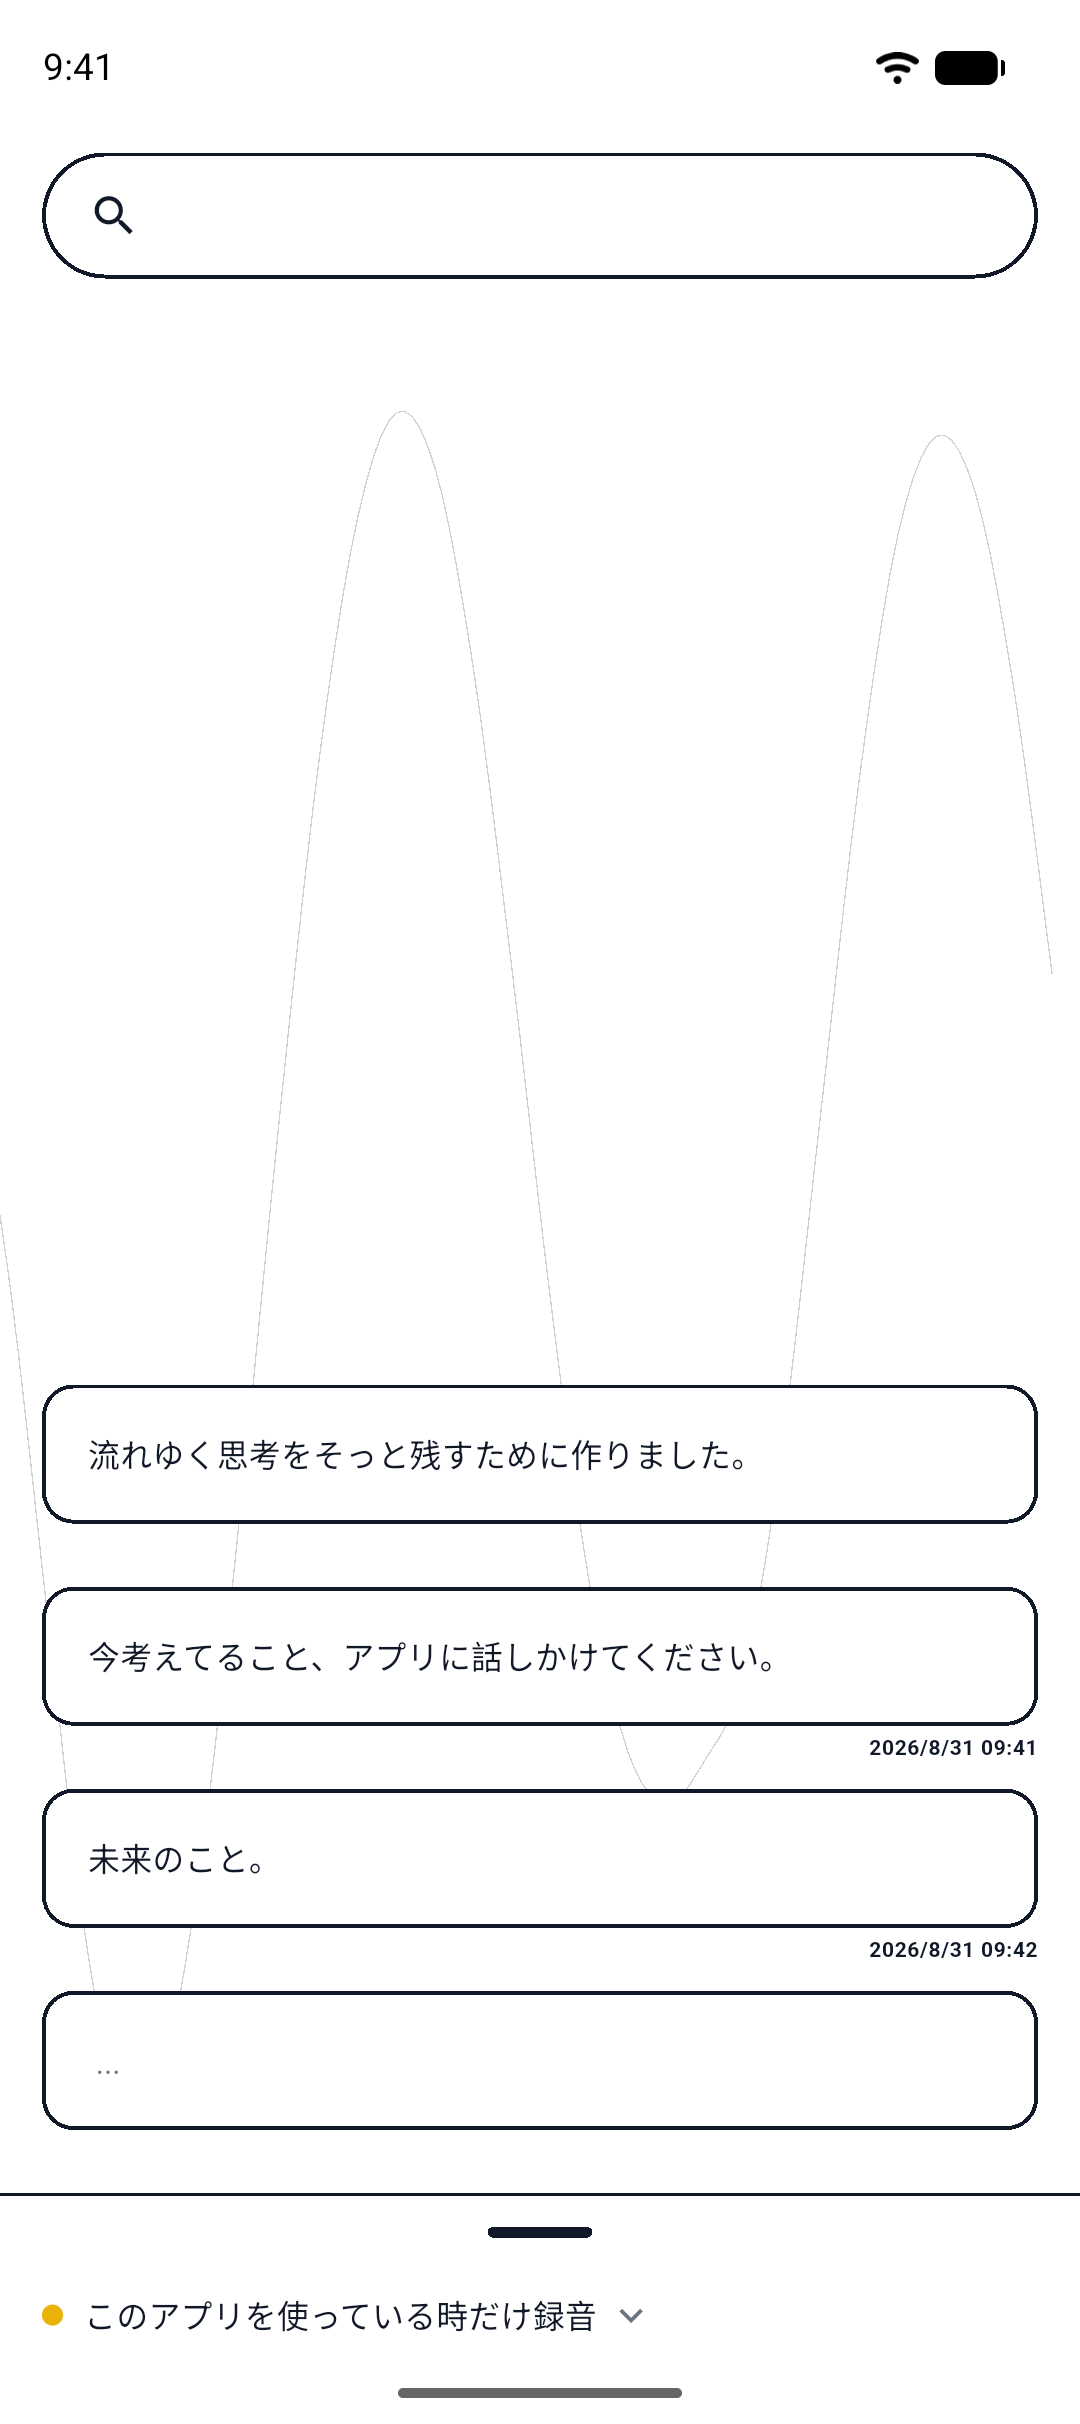
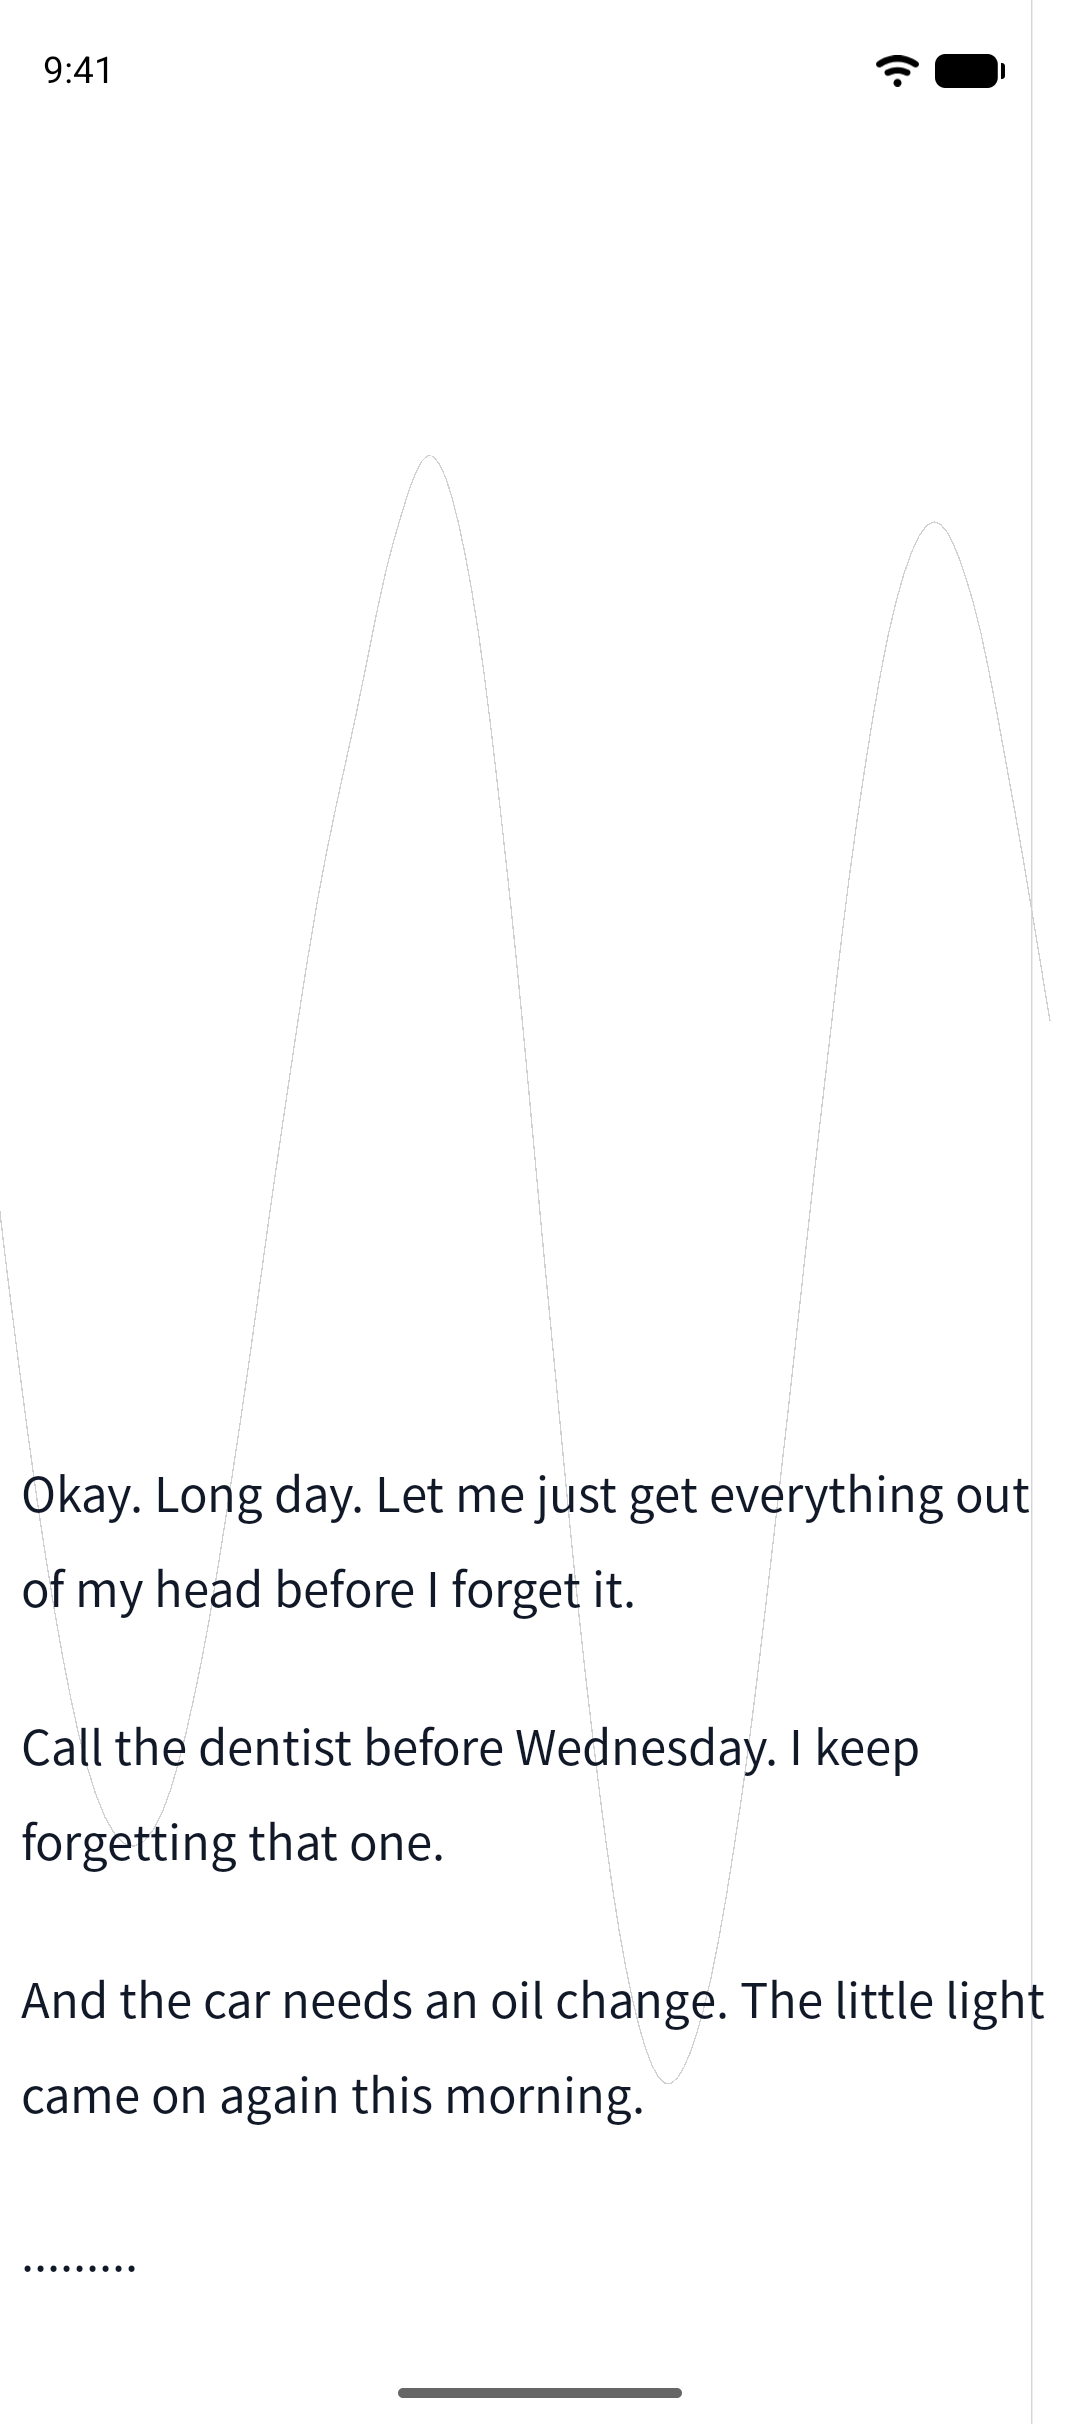
docs: add the English store listing and retake the store screenshots on iPhone 17 Pro Max with the evening monologue

diff --git a/notes/release/store_listing.md b/notes/release/store_listing.md
@@ -1,0 +1,146 @@
+# ストア掲載文（英語）
+
+App Store と Google Play に載せる文章。軸はサイト（docs/index.html）と同じ 2 つ。
+
+- **Write with your voice**：声で書くメモ。開けばすぐ聞いていて、話したことが文章になる
+- **No one else hears it.**：声もメモも端末の外に出ない
+
+書くときの決まり：
+
+- 仕組みの言葉（on-device、local など）より、使う人の不安と使う場面の言葉で書く
+- 機能は実際の動きと一致させる。特に「開いている間だけ聞く」「アカウント不要」「端末の外に出ない」は、プライバシーポリシーと Data safety の回答（store_submission/submission_notes.md）と食い違わせない
+- 文字数は各ストアの上限に収める（下の表の数は数えた値）
+- どの国のストアにも、この英語の文章をそのまま載せる（日本語版は作らない）
+- スクリーンショットは画面そのまま載せる（キャプション付きの画像にはしない）
+
+---
+
+## App Store
+
+| 項目 | 上限 | 文字数 |
+|---|---|---|
+| App Name | 30 | 5 |
+| Subtitle | 30 | 21 |
+| Promotional Text | 170 | 142 |
+| Keywords | 100 | 96 |
+| Description | 4000 | 1018 |
+
+### App Name
+
+```
+momeo
+```
+
+### Subtitle
+
+```
+Write with your voice
+```
+
+### Promotional Text
+
+```
+Open it and start talking. What you say turns into text, line after line, and stays on your phone. No account, no cloud. No one else hears it.
+```
+
+### Keywords
+
+```
+voice notes,dictation,speech to text,transcribe,journal,diary,memo,private,offline,thoughts,talk
+```
+
+### Description
+
+```
+Write with your voice.
+
+momeo is a notebook you write by talking. Open the app and start talking. There is no record button and no typing. What you say turns into text, line after line, like a page in a notebook.
+
+Say whatever is on your mind:
+• Something to do before Wednesday
+• A gift idea for someone's birthday
+• How the meeting really went
+• A plan for the weekend
+• What to pick up on the way home
+
+NO ONE ELSE HEARS IT
+Speech recognition runs on your phone. Your voice and your notes never leave it. No account, no cloud, no ads, no tracking. Not even we can read them.
+
+momeo only listens while it is open on your screen. Close it, and it stops.
+
+MADE FOR THINKING OUT LOUD
+• Starts listening the moment you open it
+• Your notes flow as one continuous page, newest at the bottom
+• Tap anywhere to fix a word. It edits like any notepad
+• Select and copy what you need
+
+REQUIREMENTS
+iOS 26 or later. momeo uses your device's language. The first time, your iPhone may download the speech model for that language.
+```
+
+---
+
+## Google Play
+
+| 項目 | 上限 | 文字数 |
+|---|---|---|
+| App name | 30 | 28 |
+| Short description | 80 | 70 |
+| Full description | 4000 | 1074 |
+
+### App name
+
+```
+momeo: Write with your voice
+```
+
+### Short description
+
+```
+Open it and talk. Your words become notes that never leave your phone.
+```
+
+### Full description
+
+```
+Write with your voice.
+
+momeo is a notebook you write by talking. Open the app and start talking. There is no record button and no typing. What you say turns into text, line after line, like a page in a notebook.
+
+Say whatever is on your mind:
+• Something to do before Wednesday
+• A gift idea for someone's birthday
+• How the meeting really went
+• A plan for the weekend
+• What to pick up on the way home
+
+NO ONE ELSE HEARS IT
+Speech recognition runs on your phone. Your voice and your notes never leave it. No account, no cloud, no ads, no tracking. Not even we can read them.
+
+momeo only listens while it is open on your screen. Close it, and it stops.
+
+MADE FOR THINKING OUT LOUD
+• Starts listening the moment you open it
+• Your notes flow as one continuous page, newest at the bottom
+• Tap anywhere to fix a word. It edits like any notepad
+• Select and copy what you need
+
+REQUIREMENTS
+Android 13 or later, with on-device speech recognition for your language. momeo uses your device's language. The first time, your phone may download the speech model for that language.
+```
+
+---
+
+## スクリーンショット
+
+撮影の仕組みは `notes/release/screenshots/README.md`。並び順と見せたいことは次のとおり。
+
+| # | ファイル | 画面 | 伝えたいこと |
+|---|---|---|---|
+| 1 | `01_listening_idle.png` | 何も書いていない、聞いている画面 | 開いたらもう聞いている（ボタンが無い） |
+| 2 | `02_listening_first_memo.png` | 1 つ話して、次を話している途中（「.」） | 話すと文章になる |
+| 3 | `03_listening_growing_memos.png` | 3 つ目まで | 思いついた順に書き足されていく |
+| 4 | `04_listening_many_memos.png` | 5 つ目まで | 長い文もそのまま文章になる |
+| 5 | `05_listening_memo_list.png` | 7 つ並んだページ（話していない） | 1 日の考えが 1 枚のページになる |
+
+メモの中身は、サイトの画面の再現（docs/demo.js）と同じ独り言の台本の冒頭。

diff --git a/notes/release/screenshots/README.md b/notes/release/screenshots/README.md
@@ -11,7 +11,7 @@
   すべてスキップして、指定シーンの固定データだけを画面に表示する
 - シェルスクリプトは、シーンごとに「ビルド → シミュレータに入れる → 起動 →
   スクリーンショット保存」を繰り返しているだけ
-- 画面そのもの（カードのデザイン、波線、レイアウト）は本物のコードを
+- 画面そのもの（一覧のデザイン、波線、レイアウト）は本物のコードを
   そのまま使っている。**偽物なのは「表示するデータ」だけ**
 
 ## 全体の流れ
@@ -95,24 +95,23 @@ ProviderScope(
 ## 5シーンの一覧（ストアに並べる順）
 
 台本の実体は `screenshot_scenes.dart`。文言・時刻を変えたらスクリプトを再実行するだけ。
-話しかけるほどメモが増えていく流れが伝わるよう、確定メモ 0→1→3→5→9 枚で並べる。
+話しかけるほどメモが増えていく流れが伝わるよう、確定メモ 0→1→3→5→7 件で並べる。
+メモの中身は、夜に1日を振り返る独り言（サイトの画面の再現 docs/demo.js の台本の冒頭と同じ）。
 
 | ファイル名 | シーン名 | 内容 |
 |---|---|---|
 | `01_listening_idle` | `listening_idle` | 波線だけの静かなリスニング画面 |
-| `02_listening_first_memo` | `listening_first_memo` | 発話中ドット＋確定1枚 |
-| `03_listening_growing_memos` | `listening_growing_memos` | 発話中ドット＋確定3枚 |
-| `04_listening_many_memos` | `listening_many_memos` | 発話中ドット＋確定5枚 |
-| `05_listening_memo_list` | `listening_memo_list` | 時刻付きの確定一覧9枚（発話なし） |
+| `02_listening_first_memo` | `listening_first_memo` | 発話中の「.」＋確定1件 |
+| `03_listening_growing_memos` | `listening_growing_memos` | 発話中の「.」＋確定3件 |
+| `04_listening_many_memos` | `listening_many_memos` | 発話中の「.」＋確定5件 |
+| `05_listening_memo_list` | `listening_memo_list` | 確定一覧7件（発話なし）。例文は2行の文が多いので、ステータスバーに重ならない7件まで |
 
 シーン名は「対象画面＋状態」で付けてあり、表示する文言には依存しない。
-デモメモは同じ分に2件ずつ入れてあり、「同じ分のカードは日時を1つにまとめる」
-という実際の表示ルールが写るようにしてある。
 
 ## 撮り直し方
 
 ```bash
-# iOS（iPhone 16 Pro Max シミュレータ。App Store 必須の 6.9 インチ = 1320x2868）
+# iOS（iPhone 17 Pro Max シミュレータ・iOS 26 以上。App Store 必須の 6.9 インチ = 1320x2868）
 bash scripts/take_ios_screenshots.sh
 
 # Android（Pixel エミュレータ。1080x2424）
